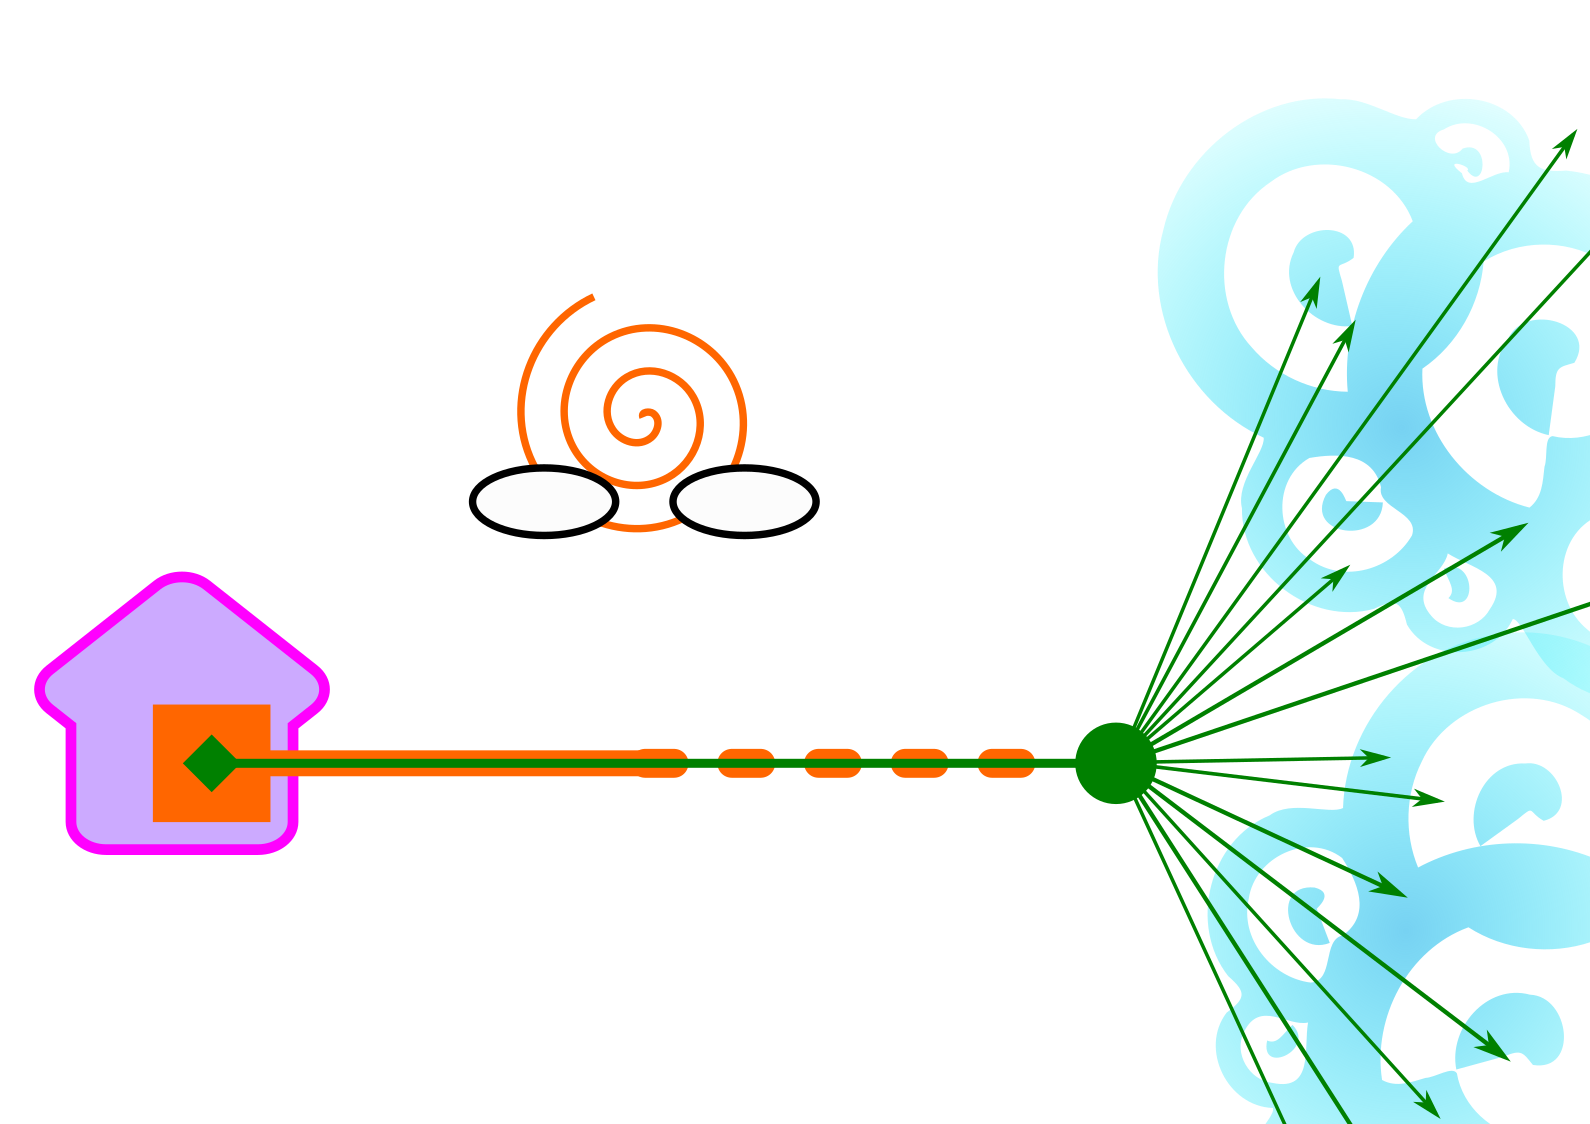
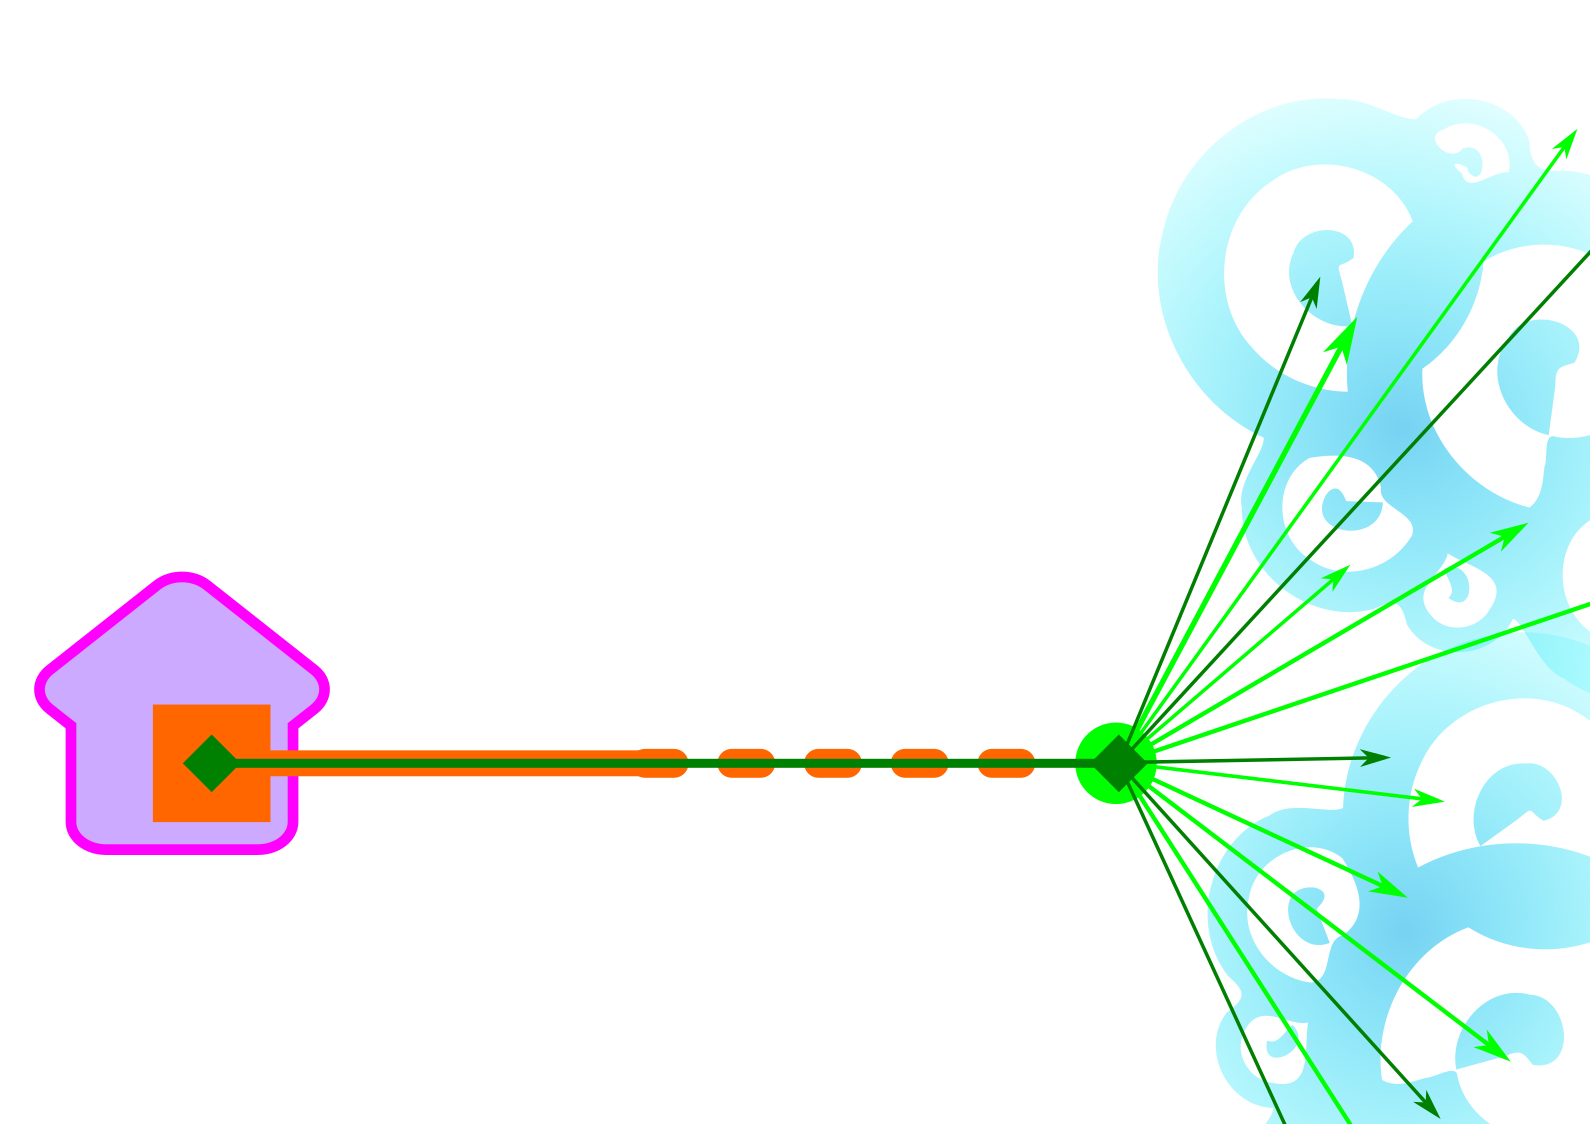
Avec ou sans VPN ? Visuel de comparaison… v2 !

diff --git a/pages/02.vpn/02._highlights/features.en.md b/pages/02.vpn/02._highlights/features.en.md
@@ -1,0 +1,36 @@
+---
+title: Homepage Highlights
+menu: Highlights
+class: offset-box
+features:
+	- header: Crazy Fast
+	  text: "Performance is not just an afterthought, we baked it in from the start!"
+	  icon: fa fa-fighter-jet
+    - header: Easy to build
+      text: "Simple text files means Grav is trivial to install, and easy to maintain"
+      icon: fa fa-database
+    - header: Awesome Technology
+      text: "Grav employs best-in-class technologies such as Twig, Markdown &amp; Yaml"
+      icon: fa fa-cubes
+    - header: Super Flexible
+      text: "From the ground up, with many plugin hooks, Grav is extremely extensible"
+      icon: fa fa-object-ungroup
+    - header: Abundant Plugins
+      text: "A vibrant developer community means 200+ plugins available to download"
+      icon: fa fa-puzzle-piece
+    - header: Free / Open Source
+      text: "Grav is an open source project, so you can spend your money on other stuff"
+      icon: fa fa-money
+
+
+---
+
+# Commander ?
+## **et puis quoi encore…**
+
+Vous croyez que ça suffit pour construire un Internet </br> [Neutre](https://www.laquadrature.net/fr/neutralite_du_Net), [Décentralisé](https://fr.wikipedia.org/wiki/Red%C3%A9centralisation_d'Internet) _(bien que ce fut l'idée à la base :/ )_ et [Solidaire](https://fr.wikipedia.org/wiki/Solidarit%C3%A9) !
+
+[ui-image-compare]
+![Without VPN](Explication-visuelle-vpn-sans.png?cache)
+![With VPN](Explication-visuelle-vpn-avec.png?cache)
+[/ui-image-compare]
